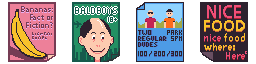
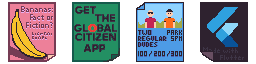
changed texts, paper flier

Changed region(s): [[0.2812, 0.0625, 0.4688, 0.9688], [0.7812, 0.0625, 0.9688, 0.9375]]

diff --git a/lib/constants/info_text.dart b/lib/constants/info_text.dart
@@ -52,11 +52,9 @@ class InfoText{
 
   static const String cafe = 'Enjoyeux cafe\n\n'
       'Best vegan food in town!\n\n'
-      'Choosing plant-based proteins like beans, lentils, and tofu shrinks your carbon footprint.\n\n'
-      'It conserves precious water and protects biodiversity.\n\n'
-      'Go green, go meatless, and savor the positive impact on our planet, one delicious bite at a time\n\n'
-      'Greenhouse Gases: Animal agriculture is responsible for 14.5% of global greenhouse gas emissions\n'
-      'Livestock production uses 70% of all agricultural land globally, yet only provides 18% of the world\'s calories. '
+      'Plant-based foods like beans, lentils, and tofu reduce your carbon footprint\n\n'
+      'Go meatless, and savor the positive impact on our planet, one bite at a time\n\n'
+      'Animal agriculture is responsible for 14.5% of global greenhouse gas emissions and uses 70% of all agricultural land globally, yet only provides 18% of the world\'s calories.'
       'Choosing plant-based foods frees up land for other uses, like restoring natural ecosystems\n\n'
       'Source: https://www.reuters.com/business/environment/ factbox-how-food-agriculture-contribute-climate-change-2023-12-02/';
 
@@ -66,12 +64,12 @@ class InfoText{
       'Talk to everyone!';
 
   static const String park_sign = 'This way to Gomiland National Park.\n\n'
-      'Don\'t forget to visit the Castle, Bamboo Forest Shrine, World forest and the Honey Bee Colony\n\n'
+      'Visit the Castle, Bamboo Forest Shrine, World forest and the Honey Bee Colony\n\n'
       'Please pick up rubbish in the park. Let\'s do our part to keep the park clean!\n\n'
       'Importance of National Parks:\n'
       '1. Protect ecological biodiversity, preserve landscapes\n'
       '2. Provide economic support for natural and cultural resources through tourism\n'
-      '3. Protection from threats including logging and land clearing, pollution, and urban development\n'
+      '3. Protection from threats like logging, land clearing, pollution, and urbanisation\n'
       '4. Provide a safe haven for threatened native species\n\n'
       'Source: https://blog.nationalparks.nsw.gov.au/whats-a-national-park-and-why-does-it-matter,\n'
       'https://www.nathab.com/blog/why-national-parks-matter,';
@@ -103,7 +101,9 @@ class InfoText{
       'Home to many different species of plants and wildlife.\n\n'
       'Importance of National Parks:\n'
       '1. Protect ecological biodiversity, preserve landscapes\n'
-      '2. Provide economic support for natural and cultural resources through tourism\n';
+      '2. Provide economic support for natural and cultural resources through tourism\n'
+      'Did you know: Yellowstone National Park, established in 1872, was the first ever National Park!\n'
+      'Now there are over 6500 parks around the world!';
 
   static const String castle = 'Gomiland castle\n\n\n'
       'Please do not throw trash on the castle grounds.\n\n';
